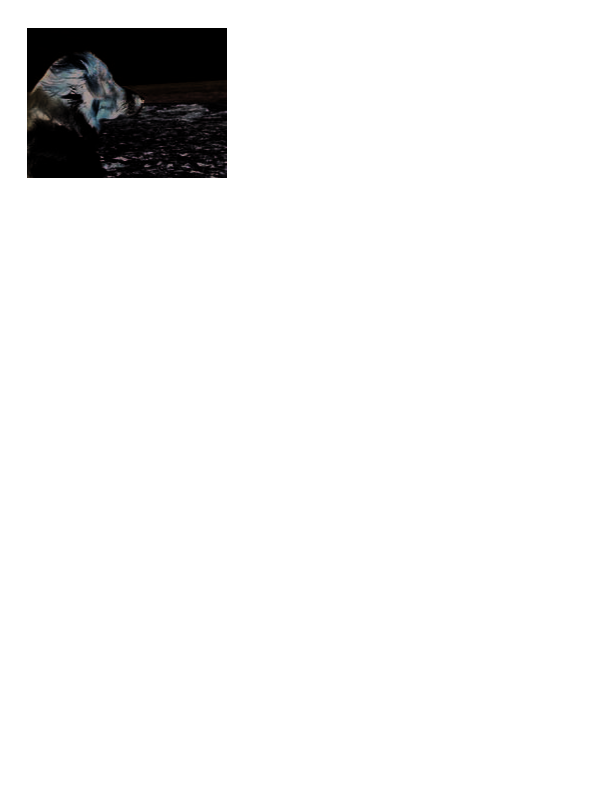
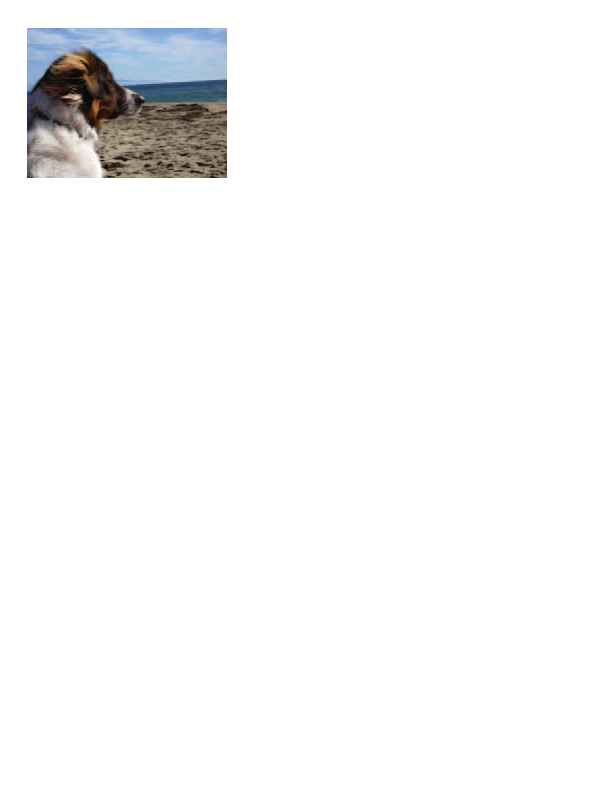
feat: implement pure-Dart DeviceCMYK JPEG decoding to fix color rendering inaccuracies

Changed region(s): [[0.031, 0.0303, 0.3725, 0.2424]]

diff --git a/packages/dart_pdf_editor/lib/src/image_decoder.dart b/packages/dart_pdf_editor/lib/src/image_decoder.dart
@@ -2,6 +2,7 @@ import 'dart:async';
 import 'dart:typed_data';
 import 'dart:ui' as ui;
 
+import 'package:image/image.dart' as img;
 import 'package:pdf_cos/pdf_cos.dart';
 import 'package:pdf_document/pdf_document.dart';
 import 'package:pdf_graphics/pdf_graphics.dart';
@@ -85,9 +86,10 @@ class ImageCollector implements PdfDevice {
 ///
 /// Coverage: DCTDecode via the platform codec; CCITTFaxDecode and
 /// JBIG2Decode (with /JBIG2Globals) via the pure-Dart decoders;
-/// Flate/raw DeviceRGB, DeviceGray (8 and 1 bit) and Indexed samples
-/// (1/2/4/8 bit, palettes in RGB, gray, or CMYK bases including
-/// ICCBased — real ICC profiles applied); /SMask soft-mask alpha;
+/// DeviceCMYK DCTDecode via a pure-Dart JPEG component decode; Flate/raw
+/// DeviceRGB, DeviceGray (8 and 1 bit) and Indexed samples (1/2/4/8 bit,
+/// palettes in RGB, gray, or CMYK bases including ICCBased — real ICC
+/// profiles applied); /SMask soft-mask alpha;
 /// explicit /Mask stencil streams; color-key /Mask ranges and /Decode
 /// arrays (on raw samples and on platform-decoded JPEGs); /ImageMask
 /// stencils (decoded as alpha, tinted by the device); JPXDecode via the
@@ -119,16 +121,30 @@ Future<ui.Image?> _decodeOne(CosDocument cos, CosStream stream) async {
           ? 'DCT'
           : null;
   if (!isMask && dctName != null) {
-    // undo any wrapping filters (e.g. [/FlateDecode /DCTDecode]), then
-    // hand the JPEG to the platform codec
+    // undo any wrapping filters (e.g. [/FlateDecode /DCTDecode])
     final jpeg = cos.decodeStreamData(stream, stopBeforeFilter: dctName);
+    final family = _colorSpaceOf(cos, dict);
+    if (family == 'DeviceCMYK') {
+      final cmyk = _decodeDctCmyk(jpeg);
+      if (cmyk != null) {
+        final rgba = _toRgba(cos, dict, cmyk.samples, cmyk.width, cmyk.height,
+            8, icc: _iccProfileFor(cos, dict));
+        if (rgba != null) {
+          final mask =
+              await _softMaskOf(cos, dict) ?? _stencilMaskOf(cos, dict);
+          if (mask != null) _applyAlpha(rgba, cmyk.width, cmyk.height, mask);
+          return _imageFromPixels(rgba, cmyk.width, cmyk.height);
+        }
+      }
+    }
+
+    // Non-CMYK JPEGs can use the platform codec.
     final codec = await ui.instantiateImageCodec(jpeg);
     final base = (await codec.getNextFrame()).image;
     final mask = await _softMaskOf(cos, dict) ?? _stencilMaskOf(cos, dict);
     // /Decode and color-key /Mask apply to the decoded samples; gray
     // JPEGs decode to RGBA with the sample replicated, so one channel
     // stands in for the raw sample either way
-    final family = _colorSpaceOf(cos, dict);
     final components = switch (family) {
       'DeviceGray' => 1,
       'DeviceRGB' => 3,
@@ -190,6 +206,77 @@ Future<ui.Image?> _decodeOne(CosDocument cos, CosStream stream) async {
   }
   return _imageFromPixels(rgba, width, height);
 }
+
+class _DctCmykImage {
+  const _DctCmykImage(this.samples, this.width, this.height);
+
+  final Uint8List samples;
+  final int width;
+  final int height;
+}
+
+/// Decodes 4-component JPEG samples in PDF polarity: 0 = no ink,
+/// 255 = full ink. Platform codecs convert these directly to RGB as Adobe
+/// inverted CMYK and lose the original K, producing very dark images.
+_DctCmykImage? _decodeDctCmyk(Uint8List jpegBytes) {
+  final jpeg = img.JpegData()..read(jpegBytes);
+  if (jpeg.components.length != 4) return null;
+  final width = jpeg.width;
+  final height = jpeg.height;
+  if (width == null || height == null || width <= 0 || height <= 0) {
+    return null;
+  }
+
+  final out = Uint8List(width * height * 4);
+  final component1 = jpeg.components[0];
+  final component2 = jpeg.components[1];
+  final component3 = jpeg.components[2];
+  final component4 = jpeg.components[3];
+  final ycck = (jpeg.adobe?.transformCode ?? 0) != 0;
+
+  for (var y = 0; y < height; y++) {
+    final y1 = y >> component1.vScaleShift;
+    final y2 = y >> component2.vScaleShift;
+    final y3 = y >> component3.vScaleShift;
+    final y4 = y >> component4.vScaleShift;
+    final line1 = component1.lines[y1];
+    final line2 = component2.lines[y2];
+    final line3 = component3.lines[y3];
+    final line4 = component4.lines[y4];
+    if (line1 == null || line2 == null || line3 == null || line4 == null) {
+      return null;
+    }
+    for (var x = 0; x < width; x++) {
+      final x1 = x >> component1.hScaleShift;
+      final x2 = x >> component2.hScaleShift;
+      final x3 = x >> component3.hScaleShift;
+      final x4 = x >> component4.hScaleShift;
+      var c = line1[x1];
+      var m = line2[x2];
+      var yy = line3[x3];
+      var k = line4[x4];
+
+      if (ycck) {
+        final cr = yy - 128;
+        final cb = m - 128;
+        final yScaled = c << 8;
+        c = _shiftR(yScaled + 359 * cr, 8).clamp(0, 255);
+        m = _shiftR(yScaled - 88 * cb - 183 * cr, 8).clamp(0, 255);
+        yy = _shiftR(yScaled + 454 * cb, 8).clamp(0, 255);
+        k = 255 - k;
+      }
+
+      final i = (y * width + x) * 4;
+      out[i] = c;
+      out[i + 1] = m;
+      out[i + 2] = yy;
+      out[i + 3] = k;
+    }
+  }
+  return _DctCmykImage(out, width, height);
+}
+
+int _shiftR(int value, int count) => (value >> count).toSigned(32);
 
 /// JPX samples to RGBA by component count (per §7.4.9 the embedded
 /// color description governs; gray, RGB, and CMYK cover PDF practice).

diff --git a/packages/dart_pdf_editor/test/image_decoder_test.dart b/packages/dart_pdf_editor/test/image_decoder_test.dart
@@ -1,9 +1,11 @@
+import 'dart:io';
 import 'dart:typed_data';
 import 'dart:ui' as ui;
 
 import 'package:flutter_test/flutter_test.dart';
 import 'package:pdf_cos/pdf_cos.dart';
 import 'package:dart_pdf_editor/src/image_decoder.dart';
+import 'package:pdf_document/pdf_document.dart';
 import 'package:pdf_graphics/pdf_graphics.dart';
 import 'package:pdf_test_fixtures/pdf_test_fixtures.dart';
 
@@ -343,6 +345,31 @@ void main() {
       expect(pixels[0], lessThan(60));
       expect(pixels[1], greaterThan(200));
       expect(pixels[2], greaterThan(200));
+      expect(pixels[3], 255);
+    });
+  });
+
+  testWidgets('DeviceCMYK DCT images decode in PDF sample polarity',
+      (tester) async {
+    await tester.runAsync(() async {
+      final doc = PdfDocument.open(
+          File('../../test_corpora/pdfjs/cmykjpeg.pdf').readAsBytesSync());
+      final collector = ImageCollector();
+      PdfInterpreter(cos: doc.cos, device: collector).drawPage(doc.page(0));
+      expect(collector.streams, hasLength(1));
+
+      final request = collector.streams.single;
+      final images = await decodeImages(doc.cos, [request]);
+      final image = images[pdfImageKey(request)]!;
+      expect(image.width, 200);
+      expect(image.height, 150);
+
+      final pixels = await pixelsOf(image);
+      // The embedded Adobe CMYK JPEG starts with a light sky pixel.
+      // Platform RGB conversion rendered this nearly black.
+      expect(pixels[0], greaterThan(90));
+      expect(pixels[1], greaterThan(140));
+      expect(pixels[2], greaterThan(170));
       expect(pixels[3], 255);
     });
   });

diff --git a/test_corpora/pdfjs/_renders/index.html b/test_corpora/pdfjs/_renders/index.html
@@ -554,7 +554,7 @@ img{display:block;max-width:100%;height:auto;background:white;border:1px solid #
 </div>
 </figure>
 <figure class="result">
-<figcaption class="meta">cmykjpeg.pdf page 1<br>612x792<br>6.180% differing pixels</figcaption>
+<figcaption class="meta">cmykjpeg.pdf page 1<br>612x792<br>5.996% differing pixels</figcaption>
 <div class="shots">
 <div><div class="shot-label">PDF.js baseline</div><a href="cmykjpeg.pdf.p0.baseline.png"><img src="cmykjpeg.pdf.p0.baseline.png" loading="lazy"></a></div>
 <div><div class="shot-label">Dart render</div><a href="cmykjpeg.pdf.p0.dart.png"><img src="cmykjpeg.pdf.p0.dart.png" loading="lazy"></a></div>

diff --git a/test_corpora/pdfjs/_renders/README.md b/test_corpora/pdfjs/_renders/README.md
@@ -77,7 +77,7 @@ fvm dart packages/dart_pdf_editor/tool/rebuild_pdfjs_render_index.dart
 | cidfont_cmap_overflow.pdf | 1 | 400x150 | 0.000% |
 | clippath.pdf | 1 | 200x100 | 0.000% |
 | close-path-bug.pdf | 1 | 612x792 | 0.001% |
-| cmykjpeg.pdf | 1 | 612x792 | 6.180% |
+| cmykjpeg.pdf | 1 | 612x792 | 5.996% |
 | colorkeymask.pdf | 1 | 596x842 | 0.000% |
 | colorspace_atan.pdf | 1 | 276x276 | 83.903% |
 | complex_ttf_font.pdf | 1 | 595x842 | 3.207% |
@@ -752,7 +752,7 @@ fvm dart packages/dart_pdf_editor/tool/rebuild_pdfjs_render_index.dart
 
 ### cmykjpeg.pdf page 1
 
-612x792; diff: 6.180%
+612x792; diff: 5.996%
 
 | PDF.js baseline | Dart render | Diff |
 | --- | --- | --- |